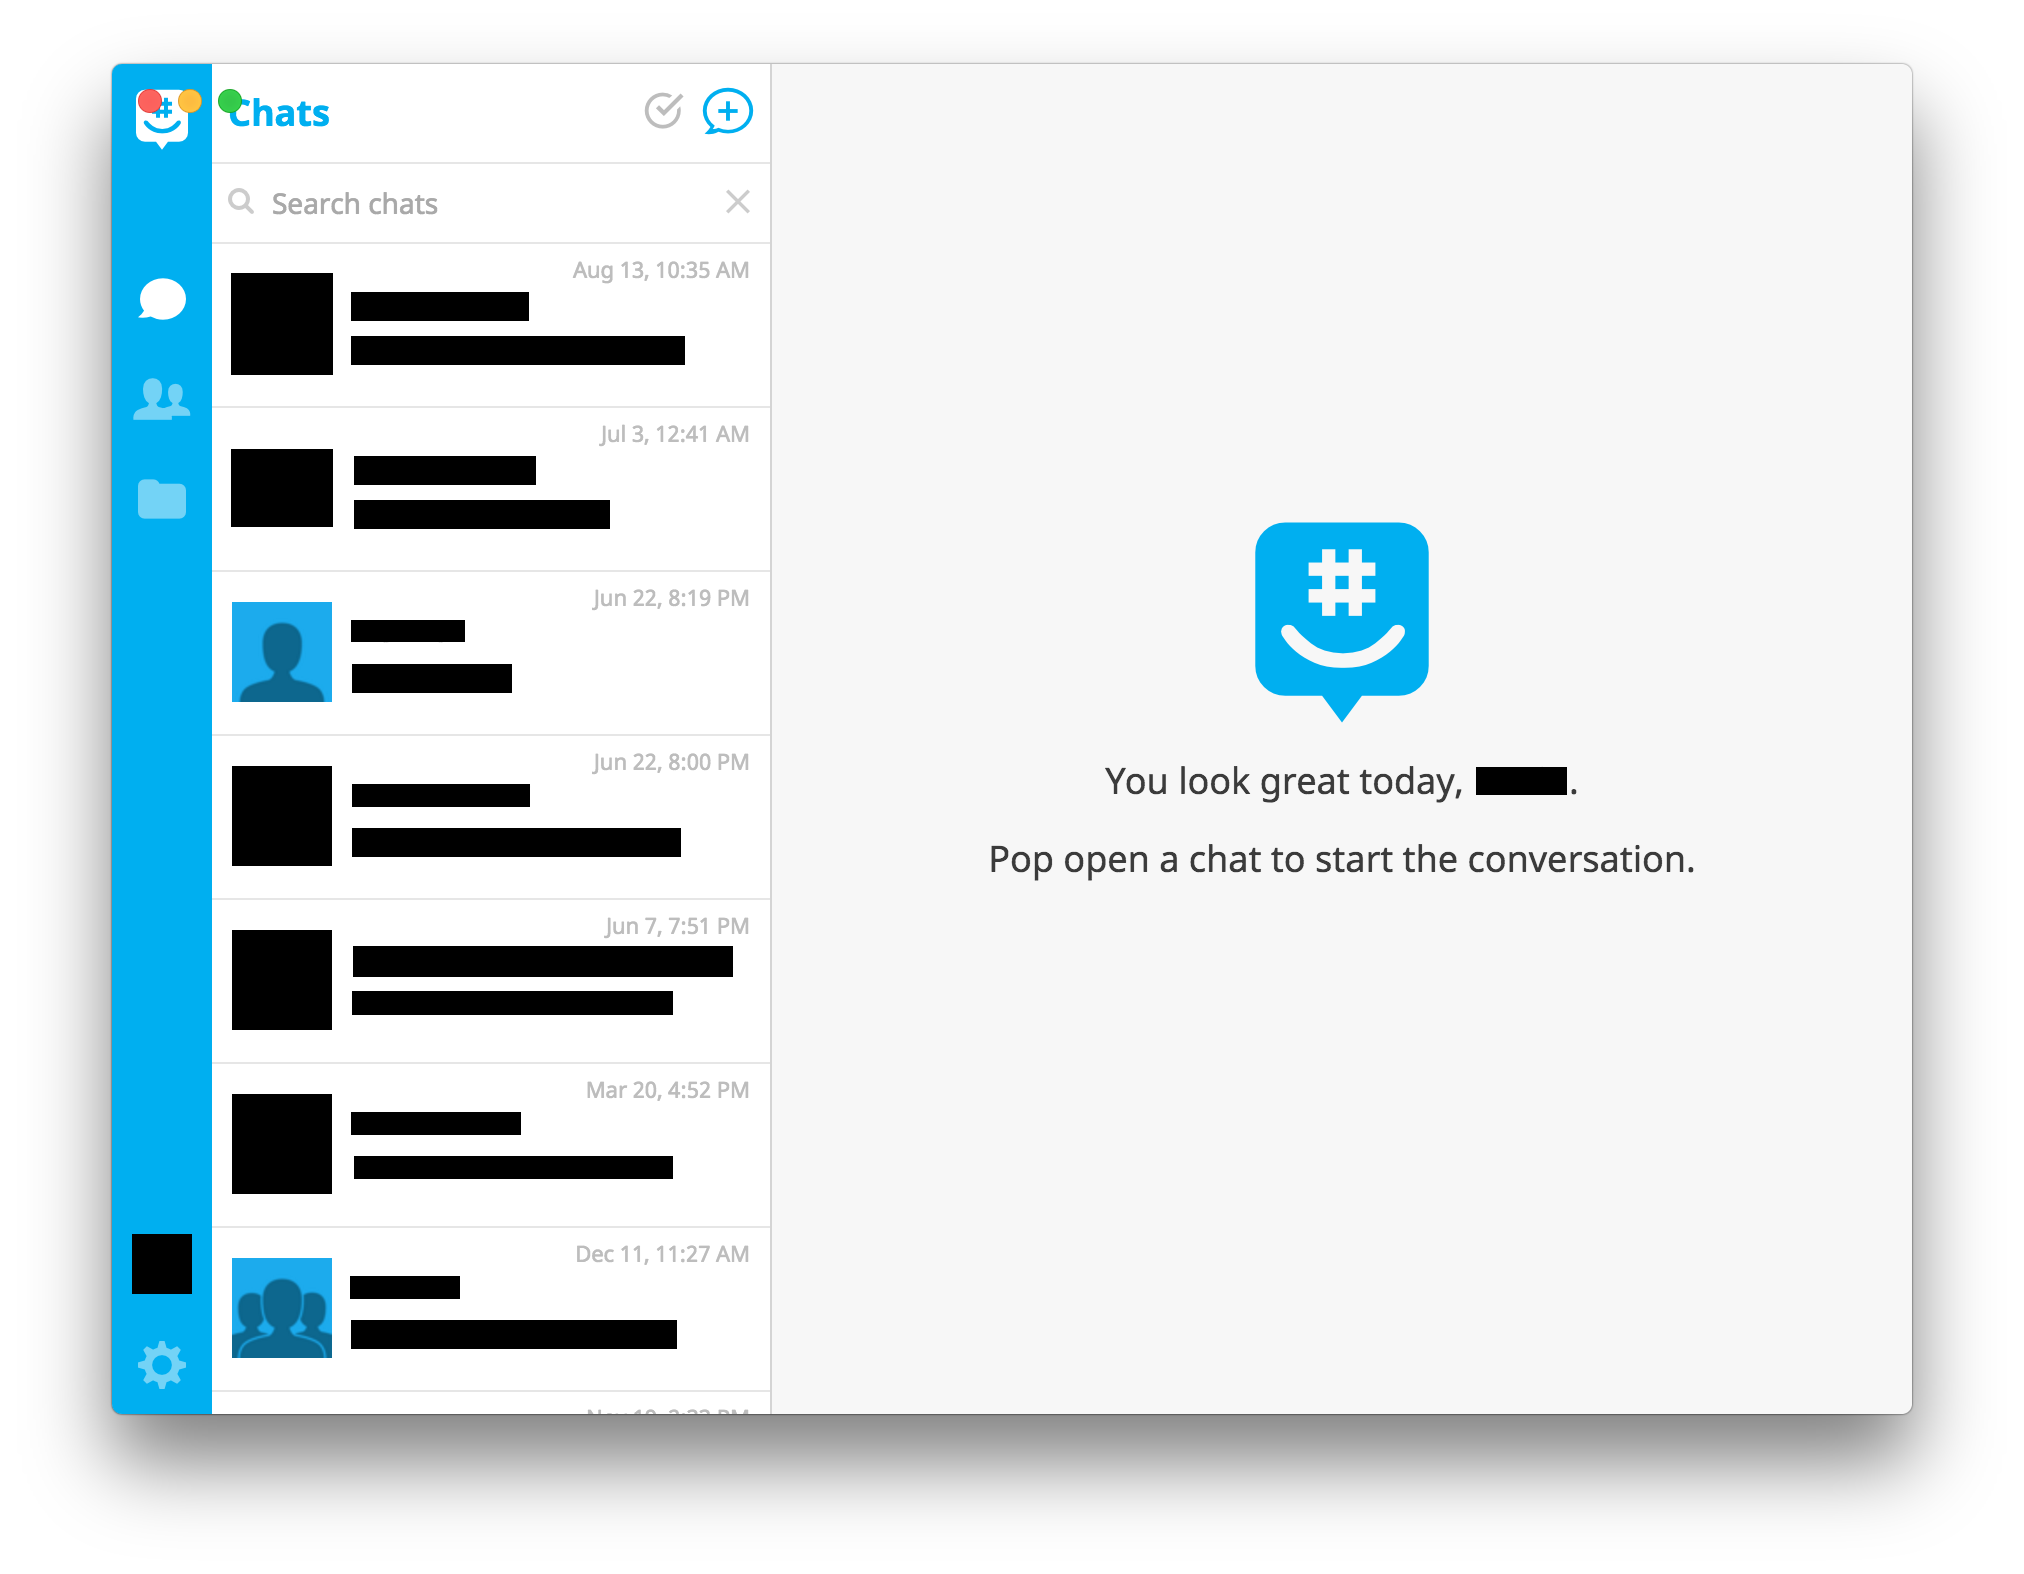
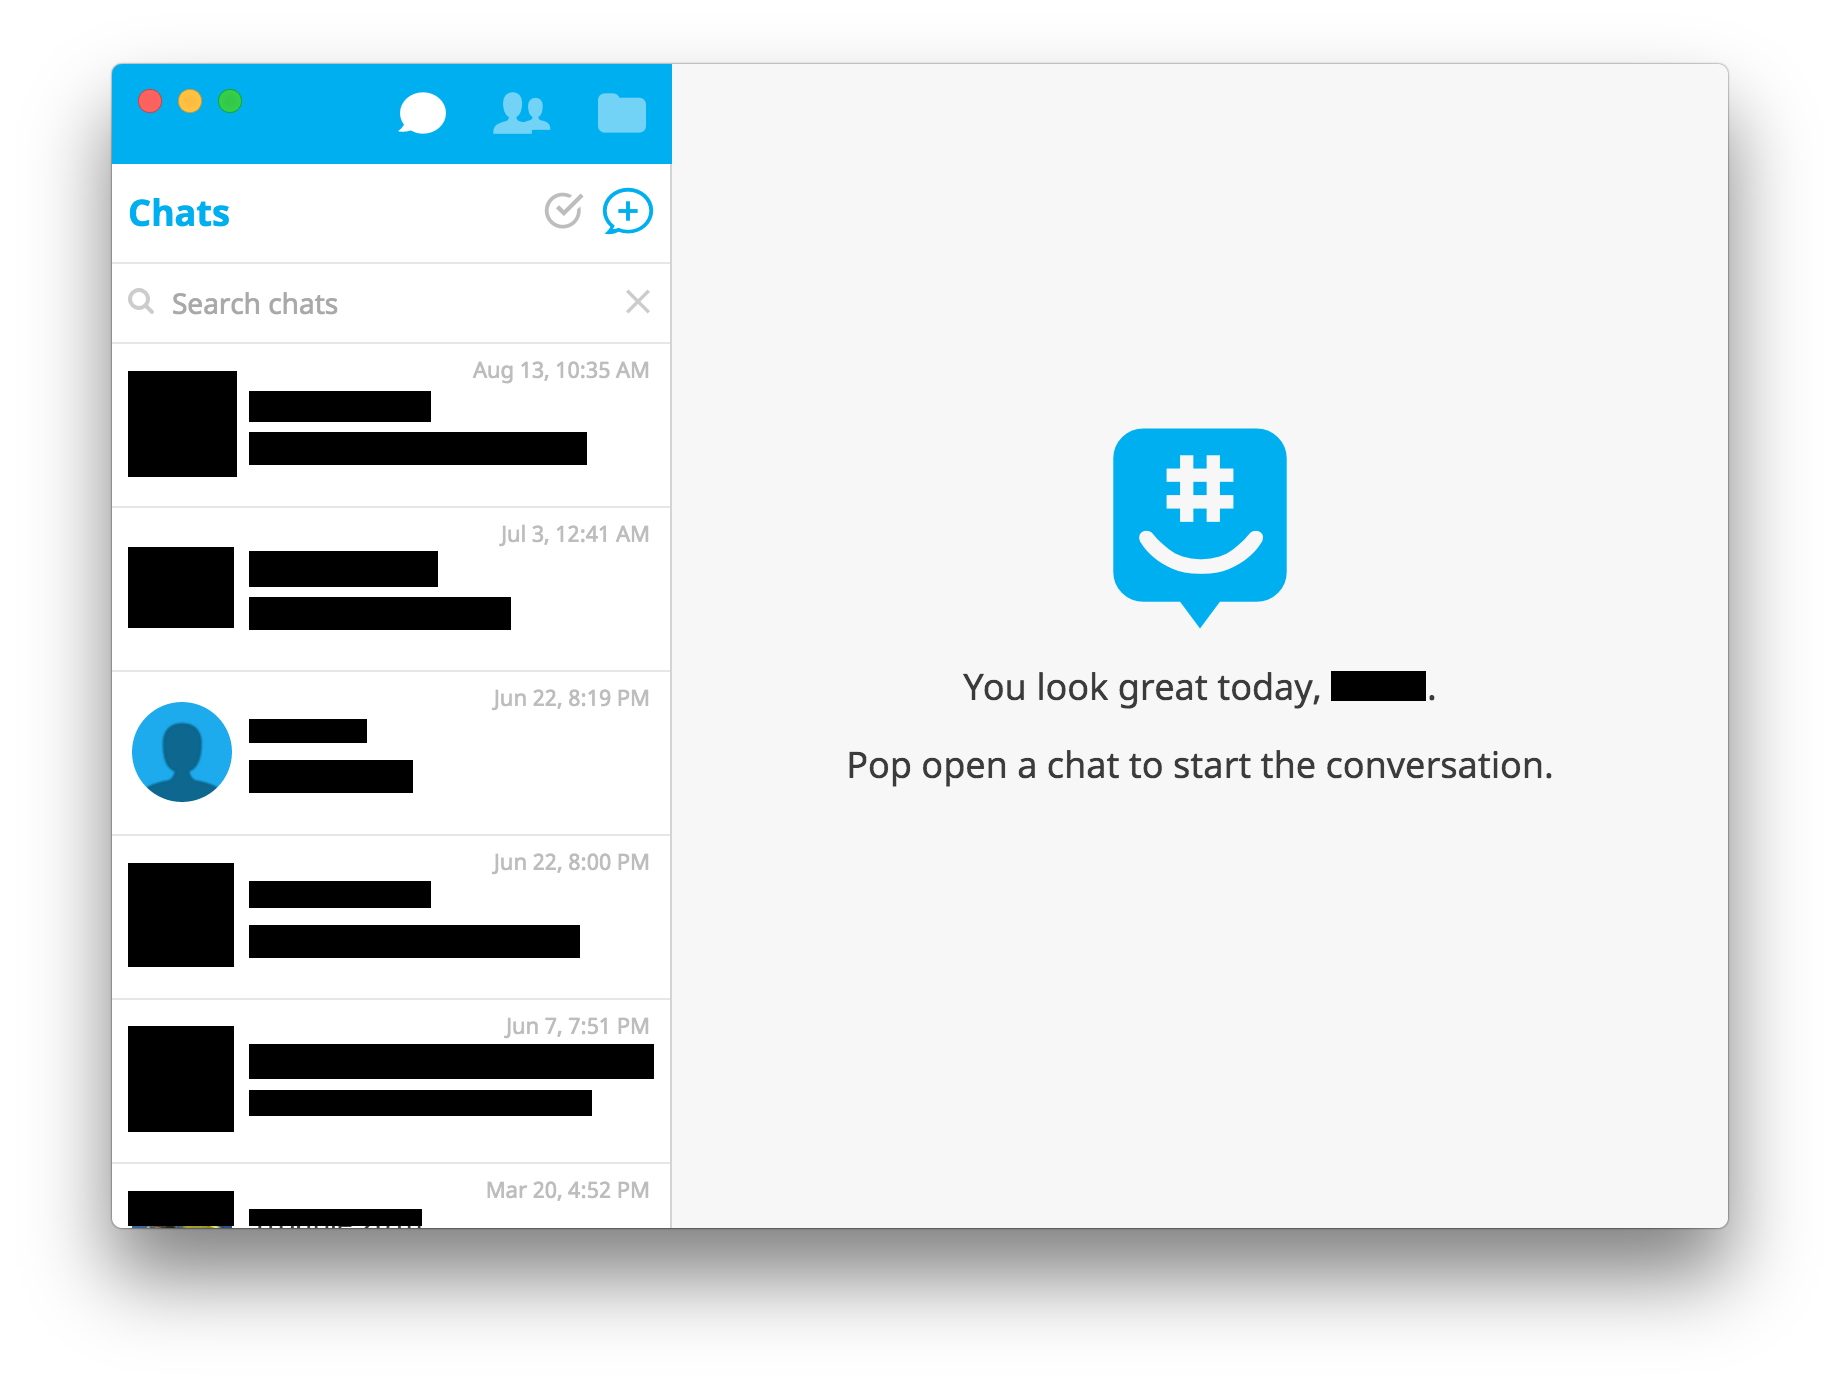
Add CSS styling

Changed region(s): [[0.031, 0.031, 0.9603, 0.8984], [0.4647, 0.3098, 0.8364, 0.5576], [0.2788, 0.3718, 0.3717, 0.4027]]

diff --git a/inject/app.css b/inject/app.css
@@ -1,0 +1,239 @@
+:root {
+	--dragbar-height: 50px;
+	--sidebar-width: 280px;
+}
+
+body::before {
+	position: absolute;
+	top: 0;
+	right: 0;
+	left: 0;
+	z-index: -1;
+	height: var(--dragbar-height);
+	content: "";
+	-webkit-app-region: drag;
+}
+
+body > #app {
+	height: 100vh;
+}
+
+body > #app .accessible-focus:focus {
+	outline: none !important;
+}
+
+body > #app .groupme-list .list-item {
+	outline: none;
+}
+
+body > #app > #page {
+	padding-left: 0;
+}
+
+
+/* Pillar */
+body > #app > .app-sidebar {
+	display: block;
+	width: var(--sidebar-width);
+}
+
+body > #app > .app-sidebar > .pillar {
+	position: static;
+	width: var(--sidebar-width);
+	height: auto;
+}
+
+body > #app > .app-sidebar > .pillar > .logo {
+	display: none;
+}
+
+body > #app > .app-sidebar > .pillar > .tray-controls {
+	display: flex;
+	justify-content: flex-end;
+	margin: 0;
+}
+
+body > #app > .app-sidebar > .pillar > .tray-controls > .tab {
+	line-height: initial;
+	-webkit-app-region: no-drag
+}
+
+body > #app > .app-sidebar > #tray {
+	display: block !important;
+	top: var(--dragbar-height);
+	left: 0;
+}
+
+body > #app > .app-sidebar > #tray > .tray-header > .row {
+	margin: 0;
+}
+
+body > #app > .app-sidebar > #tray > .tray-header > .row > :first-child {
+	padding-left: 0;
+}
+
+body > #app > .app-sidebar > #tray > .tray-header > .row > :last-child {
+	padding-right: 0;
+}
+
+body > #app > .app-sidebar > #tray > .tray-list {
+	height: -webkit-fill-available;
+}
+
+
+/* Sign In */
+body > #app > #page > #signin {
+	margin-top: calc(50vh - 250px);
+}
+
+
+/* Chat */
+body > #app > #page > #chats {
+	margin-left: var(--sidebar-width);
+}
+
+body > #app > #page > #chats > .chat {
+	min-width: initial;
+	max-width: none;
+	border: none;
+}
+
+body > #app > #page > #chats > .chat + .chat {
+	border-left: 1px solid #d4d4d4;
+}
+
+body > #app > #page > #chats > .chat > .chat-header > .menu-toggle {
+	display: inline-block;
+	-webkit-app-region: no-drag
+}
+
+body > #app > #page > #chats > .chat > .chat-header > .close-chat {
+	-webkit-app-region: no-drag
+}
+
+body > #app > #page > #chats > .chat > .chat-content > .chat-content-layout > .chat-input > .message-composer > .composer-layout > .controls > .emoji-button {
+	line-height: 22px;
+}
+
+
+/* User */
+body > #app > #page > .user-profile {
+	width: initial;
+	margin: var(--dragbar-height) 0 0 var(--sidebar-width);
+}
+
+body > #app > #page > .user-profile > .avatar {
+	min-height: 200px;
+	margin-bottom: 40px;
+}
+
+body > #app > #page > .user-profile > .avatar > .upload-image {
+	margin-bottom: 0;
+}
+
+body > #app > #page > .user-profile > .account-info > .row {
+	margin: 0 auto 10px;
+}
+
+
+/* Contacts */
+/* Archives */
+body > #app > #page > .content-card {
+	display: flex;
+	align-items: center;
+	justify-content: center;
+	width: initial;
+	height: 100%;
+	margin: 0 0 0 var(--sidebar-width);
+}
+
+
+/* Settings */
+body > #app > #page > .user-settings {
+	width: initial;
+	margin: 0 0 0 var(--sidebar-width);
+}
+
+body > #app > #page > .user-settings > .notification-settings > h4 {
+	margin: 0.835em 25px;
+}
+
+
+/* Tokens */
+body > #ap > #page > .access-tokens {
+	width: initial;
+	margin: 0 0 0 var(--sidebar-width);
+	padding-bottom: 0;
+}
+
+
+/* Modal */
+body > .modal {
+	display: flex !important;
+	justify-content: center;
+	align-items: center;
+	overflow: hidden;
+}
+
+body > .modal > .modal-dialog {
+	margin: 0 auto;
+	padding: 20px;
+}
+
+body > .modal > .modal-dialog > .modal-content > .modal-body {
+	/* 20px * 2 (top and bottom of body > .modal.group-members) */
+	/* 56px (height of body > .modal > .modal-dialog > .modal-content > .modal-header) */
+	height: calc(100vh - 96px);
+	overflow: scroll;
+}
+
+
+/* Modal > Group  */
+body > .modal:matches(.new-group, .new-dm) > .modal-dialog > .modal-content .upload-image {
+    margin: 0 0 5px;
+}
+body > .modal.new-group > .modal-dialog > .modal-content .modal-body > .upload-image {
+	margin: 0 auto 20px;
+}
+
+body > .modal.new-group > .modal-dialog > .modal-content .modal-body > .group-name {
+	margin-bottom: 5px;
+}
+
+body > .modal.new-dm > .modal-dialog > .modal-content > .modal-body {
+	/* 20px * 2 (top and bottom of body > .modal.group-members) */
+	/* 56px (height of body > .modal > .modal-dialog > .modal-content > .modal-header) */
+	/* 72px (height of body > .modal > .modal-dialog > .modal-content > .modal-footer) */
+	height: calc(100vh - 168px);
+}
+
+
+/* Modal > Members */
+body > .modal.group-members > .modal-dialog > .modal-content > .modal-body > .members .member > .avatar {
+	width: 85px;
+	height: 85px;
+}
+
+body > .modal.group-members > .modal-dialog > .modal-content > .modal-body > .members .member > .overlay > button {
+	width: 100%;
+	padding: 6px 0;
+}
+
+
+/* Modal > Media Search */
+body > .modal.media-search-modal > .modal-dialog {
+	min-width: 645px;
+}
+
+body > .modal.media-search-modal > .modal-dialog > .modal-content > .modal-body {
+	padding: 0;
+}
+
+body > .modal.media-search-modal > .modal-dialog > .modal-content > .modal-body > .scroll > .search-results {
+	display: flex;
+	justify-content: center;
+	flex-wrap: wrap;
+	width: 100%;
+	margin: 0;
+	padding: 0;
+}

diff --git a/index.js b/index.js
@@ -66,6 +66,7 @@ function createMainWindow() {
 	browser.loadURL("https://web.groupme.com/signin", {userAgent: ""});
 
 	browser.webContents.on("dom-ready", () => {
+		browser.webContents.insertCSS(filesystem.readFileSync(path.join(__dirname, "inject/app.css"), "utf8"));
 		browser.show();
 	});
 
